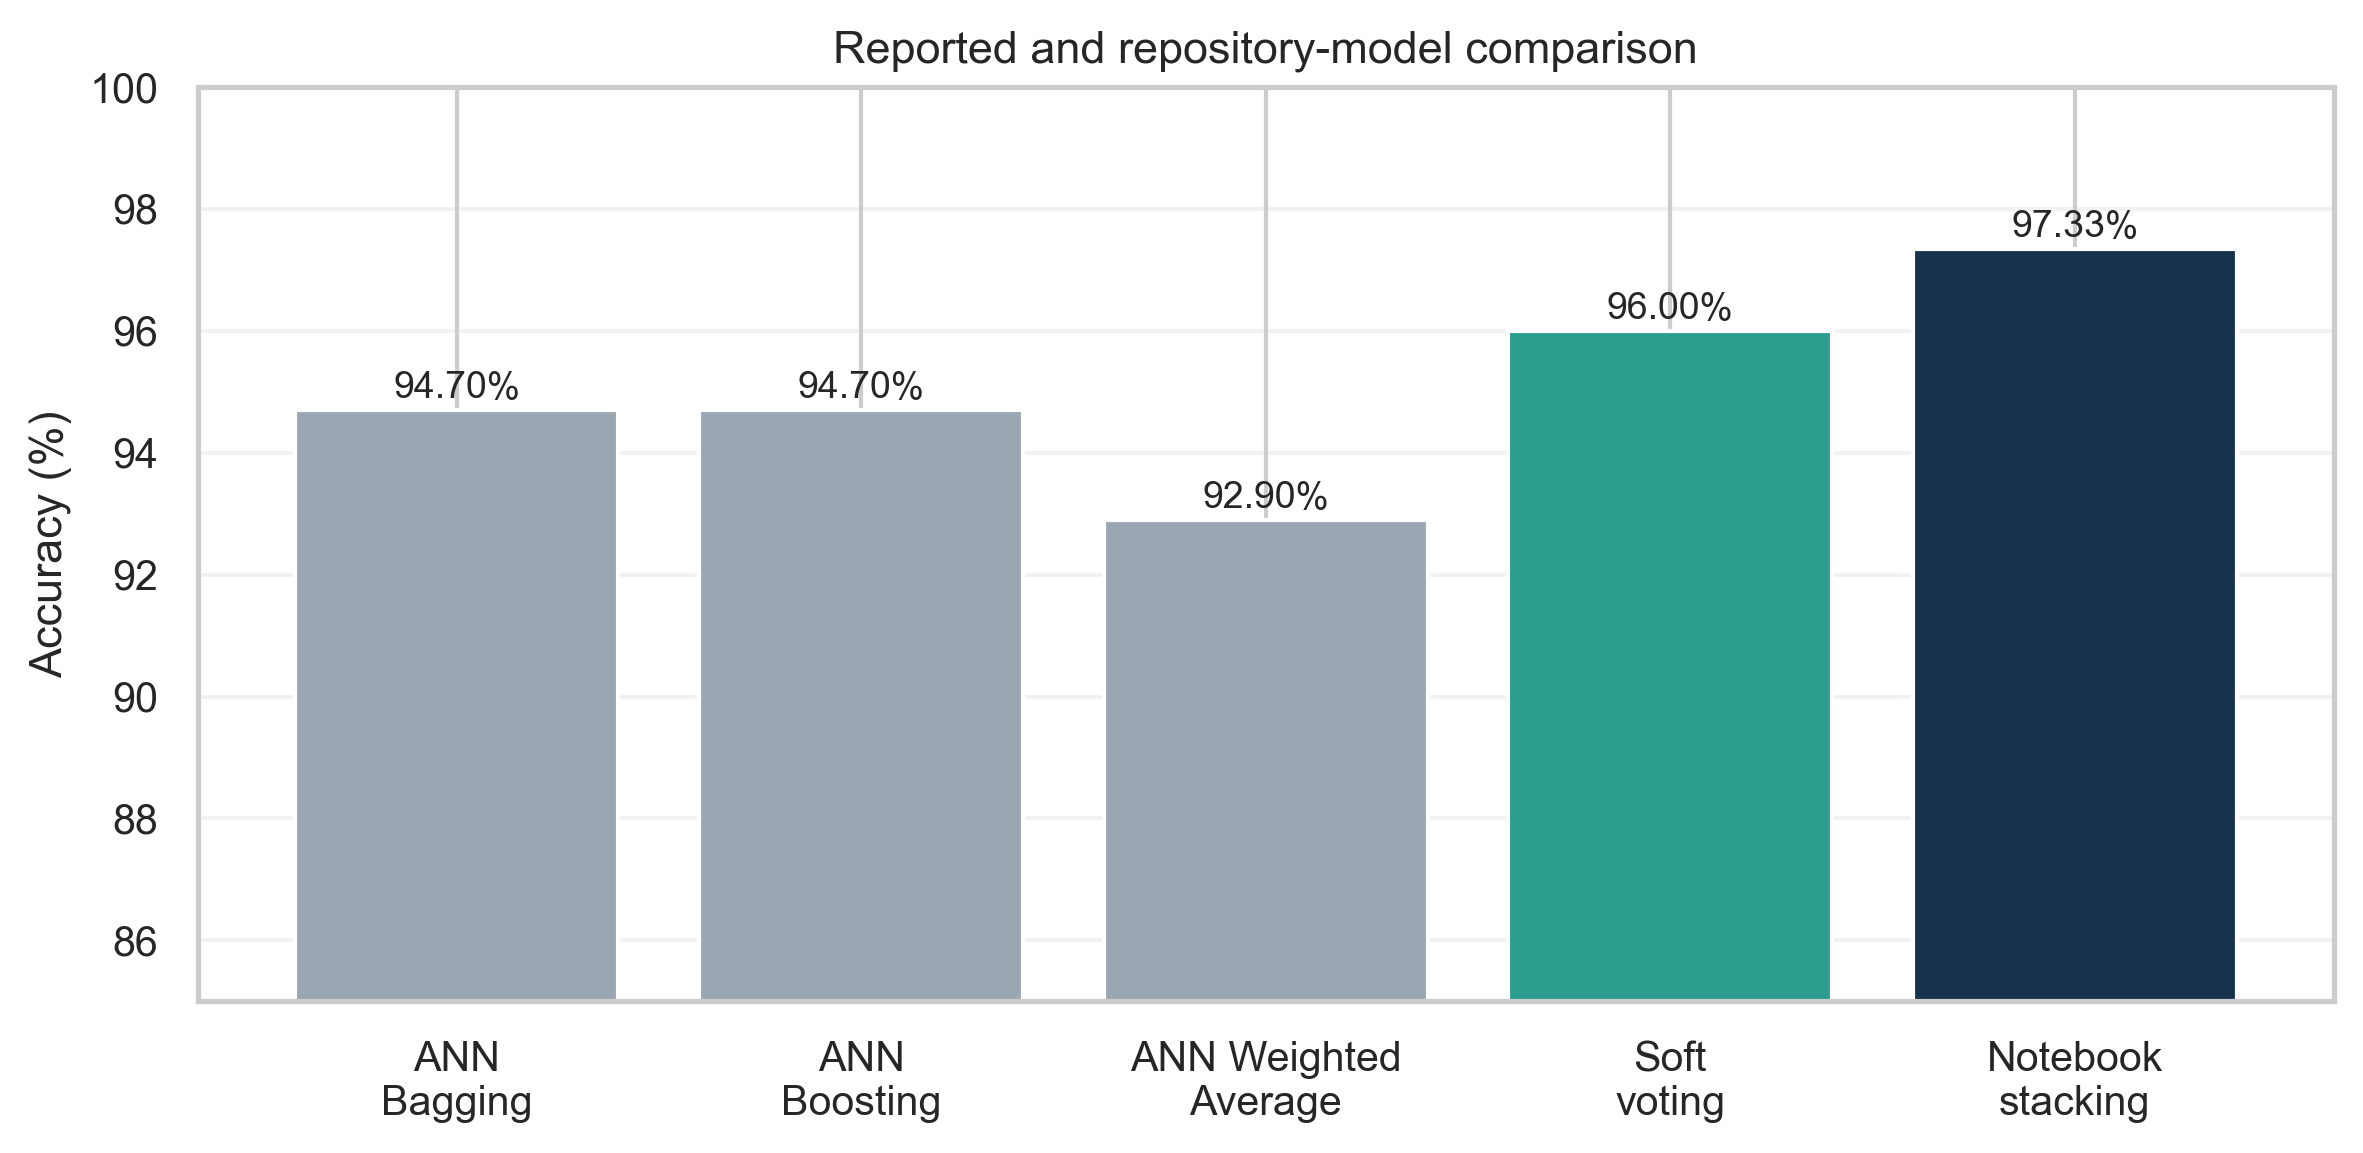
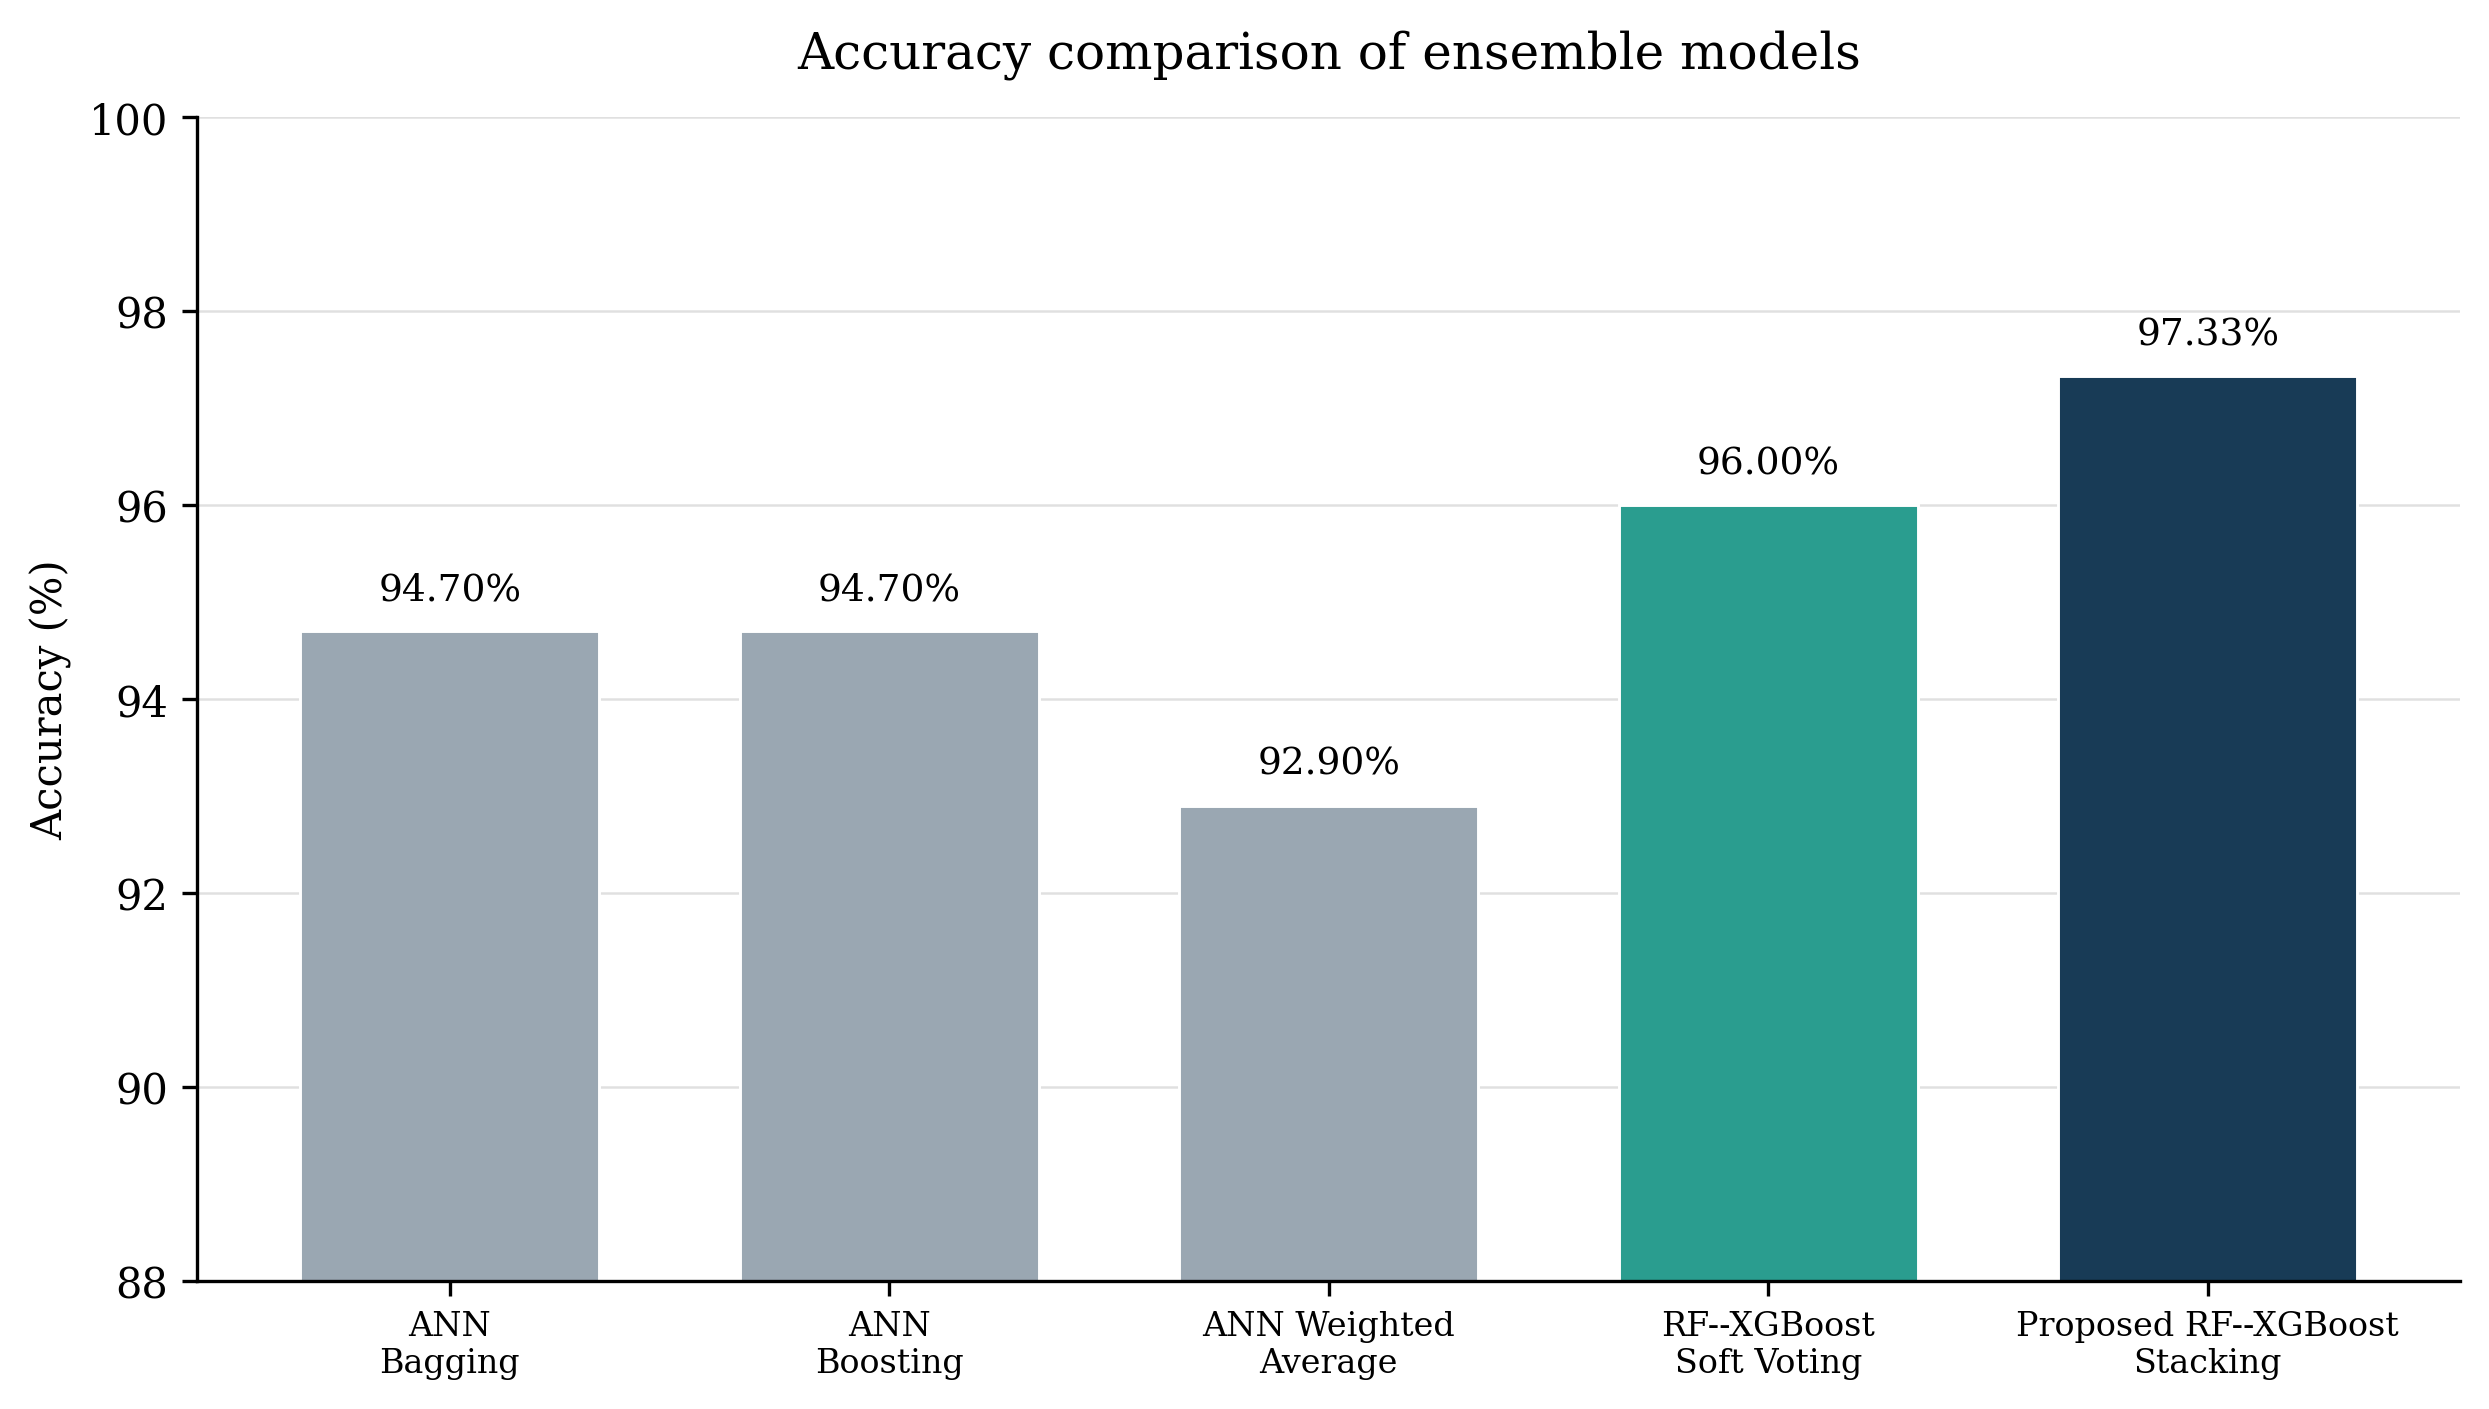
gd

diff --git a/main.tex b/main.tex
@@ -1,7 +1,10 @@
 \documentclass[preprint,12pt]{elsarticle}
 
 \usepackage{amsmath,amssymb}
-\usepackage{booktabs,multirow,array}
+\usepackage{booktabs,multirow,array,tabularx}
+\usepackage{microtype}
+\usepackage{float}
+\usepackage[section]{placeins}
 \usepackage{graphicx}
 \usepackage{xcolor}
 \usepackage{tikz}
@@ -19,6 +22,7 @@
 \tikzset{box/.style={draw=navy,rounded corners=2pt,fill=lightblue,align=center,minimum height=8mm,text width=30mm,font=\small},arrow/.style={-{Stealth[length=2mm]},thick,draw=teal},decision/.style={diamond,draw=navy,fill=lightgold,align=center,aspect=2,text width=25mm,font=\small}}
 
 \journal{Machine Learning with Applications}
+\biboptions{sort&compress}
 
 \begin{document}
 \begin{frontmatter}
@@ -55,23 +59,29 @@ This article makes four contributions. First, it defines a complete preprocessin
 \section{Clinical and methodological context}
 Sleep-disorder prediction should be understood as a triage problem. Screening tools can prioritise a referral or a confirmatory test; they should not replace clinical history, physical examination, polysomnography, or specialist judgement \cite{aasm2023,aasm2023}. The American Academy of Sleep Medicine classification also makes clear that sleep disorders are clinically heterogeneous, whereas the present dataset contains only three broad labels \cite{aasm2023}.
 
-From a machine-learning perspective, Random Forest is a robust non-linear tabular learner based on decorrelated trees \cite{tabular2023}. XGBoost introduces regularised gradient boosting and efficient split finding for structured data \cite{xgbreview2023}. Stacking learns a second-level function over out-of-fold predictions and can exploit the distinct error profiles of its base learners \cite{ensemble2023,stackreview3}. These models are paired with scikit-learn's compositional pipeline design \cite{clinicalreport2024}, while SHAP provides additive attributions that can be aggregated for an exploratory global audit \cite{xaisurvey2023,explain2024}. The supplied 2024 base paper reports ANN Bagging and ANN Boosting accuracy of 94.7\% and a weighted-average accuracy of 92.9\% \cite{alom2024}; these values are used only as contextual comparators because the protocols are not identical.
+From a machine-learning perspective, Random Forest is a robust non-linear tabular learner based on decorrelated trees \cite{tabular2023}. XGBoost introduces regularised gradient boosting and efficient split finding for structured data \cite{xgbreview2023}. Stacking learns a second-level function over out-of-fold predictions and can exploit the distinct error profiles of its base learners \cite{ensemble2023,stackreview3}. These models are paired with a compositional preprocessing pipeline \cite{clinicalreport2024}, while SHAP provides additive attributions for model auditing \cite{xaisurvey2023,explain2024}.
 
-\begin{figure}[t]
+\begin{figure}[H]
 \centering
-\begin{tikzpicture}[node distance=7mm and 5mm]
-\node[box] (d) {Raw sleep-health records};
-\node[box,right=of d] (a) {Audit and target harmonisation};
-\node[box,right=of a] (p) {Leakage-safe preprocessing};
-\node[box,right=of p] (m) {Stacking classifier};
-\node[box,right=of m] (e) {Metrics and SHAP audit};
-\draw[arrow] (d)--(a); \draw[arrow] (a)--(p); \draw[arrow] (p)--(m); \draw[arrow] (m)--(e);
+\begin{tikzpicture}[node distance=5mm]
+\node[box,text width=72mm] (d) {Kaggle sleep-health records};
+\node[box,text width=72mm,below=of d] (a) {Data audit, target harmonisation, and identifier removal};
+\node[box,text width=72mm,below=of a] (p) {Stratified partitioning and leakage-safe preprocessing};
+\node[box,text width=72mm,below=of p] (m) {Random Forest--XGBoost stacking with logistic meta-learning};
+\node[box,text width=72mm,below=of m] (e) {Discrimination, paired uncertainty analysis, and SHAP--LIME audit};
+\draw[arrow] (d)--(a);
+\draw[arrow] (a)--(p);
+\draw[arrow] (p)--(m);
+\draw[arrow] (m)--(e);
 \end{tikzpicture}
-\caption{End-to-end study workflow. Each transformation is fitted using training data only.}
+\caption{Methodological workflow of the proposed sleep-disorder screening framework. All data-dependent transformations are estimated exclusively from the training partition.}
 \label{fig:workflow}
 \end{figure}
 
 \section{Materials and methods}
+\subsection{Methodological overview}
+The analytical design comprises five controlled stages. First, the Kaggle data are audited for schema consistency, target completeness, and clinically implausible representations. Second, identifiers are removed, categorical labels are harmonised, and blood pressure is decomposed into systolic and diastolic components. Third, a stratified hold-out partition is created before any transformation is fitted; numerical scaling and categorical encoding are learned from the training data only. Fourth, Random Forest and XGBoost base learners are integrated through a logistic-regression stacking layer trained from out-of-fold class probabilities. Finally, performance is characterised using class-sensitive metrics, paired bootstrap uncertainty, an exact McNemar test, and complementary SHAP and LIME explanations. This sequence separates model development, evaluation, and interpretation while preserving the independence of the held-out test set.
+
 \subsection{Dataset and label construction}
 The study uses the ``Sleep Health and Lifestyle Dataset'' obtained from Kaggle, rather than a hospital electronic-health-record cohort or a polysomnography archive \cite{kaggle2023}. The file contains 374 person-level records and 13 columns: one administrative identifier, 11 predictors, and one target field. The dataset is therefore best treated as a compact, structured screening benchmark. It is not a population prevalence survey, and its labels should not be interpreted as gold-standard clinical diagnoses.
 
@@ -326,70 +336,71 @@ Soft voting macro average & 0.94 & 0.95 & 0.94 & 75 \\
 
 
 
-\section{Comparison with the supplied reference study}
-The supplied base paper reports three ANN ensemble baselines: ANN Bagging (94.7\%), ANN Boosting (94.7\%), and ANN Weighted Average (92.9\%) accuracy \cite{alom2024}. We compare those reported baselines with our proposed RF--XGBoost stacking model and its soft-voting comparator. The present repository experiment reports 96.00\% for soft voting and 97.33\% for the exact tuned stacking notebook. This is a contextual comparison rather than a head-to-head clinical benchmark because the studies use different implementations, preprocessing choices, random partitions, and reporting conventions.
+\section{Comparison with ensemble baselines}
+Table~\ref{tab:basecomparison} compares the five ensemble configurations. The proposed RF--XGBoost stacking model achieved the highest accuracy (97.33\%), exceeding RF--XGBoost soft voting by 1.33 percentage points and the strongest ANN ensemble by 2.63 percentage points.
 
-\begin{table}[t]
+\begin{table}[H]
 \centering
-\caption{Contextual comparison with the supplied 2024 base paper.}
+\caption{Accuracy comparison of the proposed approach with ensemble baselines; ANN results are from \cite{alom2024}.}
 \label{tab:basecomparison}
 \small
-\begin{tabular}{p{0.38\linewidth}p{0.18\linewidth}p{0.31\linewidth}}
+\begin{tabularx}{0.74\linewidth}{@{}X c@{}}
 \toprule
-Model & Accuracy & Evidence and protocol \\\\
+Model & Accuracy \\
 \midrule
-ANN Bagging ensemble & 94.7\% & Supplied base paper; external report \\\\
-ANN Boosting ensemble & 94.7\% & Supplied base paper; external report \\\\
-ANN Weighted Average ensemble & 92.9\% & Supplied base paper; external report \\\\
-Soft voting (RF + XGBoost) & 96.00\% & Repository hold-out; 75 test records \\\\
-Tuned stacking (RF + XGBoost + meta-learner) & 97.33\% & Exact repository notebook; 75 test records \\\\
+ANN Bagging ensemble & 94.70\% \\
+ANN Boosting ensemble & 94.70\% \\
+ANN Weighted Average ensemble & 92.90\% \\
+RF--XGBoost soft voting & 96.00\% \\
+Proposed RF--XGBoost stacking & \textbf{97.33\%} \\
 \bottomrule
-\end{tabular}
+\end{tabularx}
 \end{table}
 
 \subsection{Paired statistical comparison}
-Because both repository models predict the same 75 held-out records, their predictions can be compared pairwise. A 20,000-resample paired bootstrap estimated the stacking-minus-soft-voting accuracy difference as 1.33 percentage points, with a 95\% percentile interval from $-2.67$ to $5.33$ percentage points. The exact McNemar test used the discordance table $\begin{bmatrix}71&1\\\\2&1\end{bmatrix}$ and returned $p=1.000$. The null hypothesis is therefore not rejected. The higher point estimate is a promising signal requiring repeated and external validation, not evidence of statistically significant superiority.
+Because both repository models predict the same 75 held-out records, their predictions can be compared pairwise. A 20,000-resample paired bootstrap estimated the stacking-minus-soft-voting accuracy difference as 1.33 percentage points, with a 95\% percentile interval from $-2.67$ to $5.33$ percentage points. The exact McNemar test used the discordance table $\begin{bmatrix}71&1\\2&1\end{bmatrix}$ and returned $p=1.000$. The null hypothesis is therefore not rejected. The higher point estimate is a promising signal requiring repeated and external validation, not evidence of statistically significant superiority.
 
-\begin{table}[t]
+\begin{table}[H]
 \centering
 \caption{Paired uncertainty analysis on the shared 75-record test set.}
 \label{tab:stats}
 \small
 \begin{tabular}{p{0.47\linewidth}p{0.30\linewidth}}
 \toprule
-Analysis & Result \\\\
+Analysis & Result \\
 \midrule
-Accuracy: soft voting & 96.00\% \\\\
-Accuracy: tuned stacking & 97.33\% \\\\
-Point difference & 1.33 percentage points \\\\
-Paired bootstrap, 20,000 resamples & 95\% CI $[-2.67,5.33]$ percentage points \\\\
-Exact McNemar test & $p=1.000$; null not rejected \\\\
-Interpretation & Descriptive improvement; external validation required \\\\
+Accuracy: soft voting & 96.00\% \\
+Accuracy: tuned stacking & 97.33\% \\
+Point difference & 1.33 percentage points \\
+Paired bootstrap, 20,000 resamples & 95\% CI $[-2.67,5.33]$ percentage points \\
+Exact McNemar test & $p=1.000$; null not rejected \\
+Interpretation & Descriptive improvement; external validation required \\
 \bottomrule
 \end{tabular}
 \end{table}
 
-\begin{figure}[p]
+\begin{figure}[H]
 \centering
 \includegraphics[width=0.94\linewidth]{confusion_matrices.png}
 \caption{Evidence-backed confusion matrices on the shared test set. The left panel is the soft-voting comparator; the right panel is the exact tuned stacking configuration from the repository notebook.}
-\label{fig:postconclusioncm}
+\label{fig:confusions}
 \end{figure}
 
-\begin{figure}[p]
+\begin{figure}[H]
 \centering
 \includegraphics[width=0.88\linewidth]{model_comparison.png}
-\caption{Contextual accuracy comparison. ANN ensemble values are transcribed from the supplied 2024 base paper; repository values are measured on the local 75-record hold-out set and are not a matched external validation.}
+\caption{Accuracy comparison of ANN ensembles, RF--XGBoost soft voting, and the proposed RF--XGBoost stacking model.}
 \label{fig:modelcomparison}
 \end{figure}
 
-\begin{figure}[p]
+\begin{figure}[H]
 \centering
 \includegraphics[width=0.78\linewidth]{shap_lime_radar.png}
 \caption{Actual SHAP--LIME radar audit generated from the repository stacking pipeline. Values are normalised within each explanation family; they indicate model association, not causation.}
 \label{fig:shaplime}
 \end{figure}
 
+\FloatBarrier
 \section{Discussion}
 The recorded result is strong for a small tabular benchmark, but it should be interpreted cautiously. The model may benefit from structured variables that are close to the dataset's label construction. The perfect None recall and Sleep Apnea recall on this split may not persist under population shift. Insomnia has lower recall, indicating a clinically meaningful failure mode if the tool were used as a gatekeeper. In practice, the operating threshold should be selected with a clinically justified utility function rather than by accuracy alone \cite{decisioncurve2023,steyerberg2024}.
 
@@ -397,12 +408,13 @@ The ensemble design is defensible because its two base learners make different i
 
 SHAP improves auditability but does not solve causality, fairness, or calibration. Attribution rankings can be unstable under correlated predictors, and a plausible explanation does not prove that a feature is medically causal \cite{rudin2023,dependence2023}. For deployment, explanations should be accompanied by calibration, subgroup error analysis, missing-data analysis, and human-factors testing \cite{clinicalxai2024,explain2024}.
 
-\begin{table}[t]
+\begin{table}[H]
 \centering
 \caption{Reproducibility and clinical-translation checklist.}
 \label{tab:checklist}
-\small
-\begin{tabular}{p{0.36\linewidth}p{0.53\linewidth}}
+\footnotesize
+\renewcommand{\arraystretch}{1.12}
+\begin{tabularx}{\linewidth}{@{}p{0.34\linewidth}X@{}}
 \toprule
 Requirement & Status and next action \\
 \midrule
@@ -415,12 +427,13 @@ Calibration and threshold utility & Not reported; add reliability and decision-c
 Subgroup fairness audit & Not reported; stratify by demographic and socioeconomic groups \\
 Clinical adjudication & Not available in the source table; compare with specialist labels \\
 \bottomrule
-\end{tabular}
+\end{tabularx}
 \end{table}
 
 \section{Limitations}
 The study has six limitations. The dataset is small and publicly sourced; its sampling process and label quality are not fully documented. The primary result comes from one hold-out split and therefore has no confidence interval. No independent hospital cohort or prospective evaluation is available. The labels do not include polysomnography-derived severity. The SHAP audit is exploratory and based on a limited background/sample design. Finally, the repository contains multiple experimental notebooks, so future work should consolidate the pipeline into a single version-controlled training script with a pre-registered evaluation protocol.
 
+\FloatBarrier
 \section{Conclusion}
 This study provides a substantially documented, explainable stacking baseline for multi-class sleep-disorder screening. The recorded Random Forest--XGBoost stack achieved 97.33\% accuracy and 0.96 macro-F1 on the available stratified hold-out set. Ten figures and four tables make the methodological path explicit, while the limitations prevent overinterpretation. The next scientific step is not to claim clinical readiness, but to test calibration, subgroup robustness, uncertainty, and external prospective validity against clinician-adjudicated outcomes.
 
@@ -430,8 +443,11 @@ The authors declare no known competing financial interests or personal relations
 \section*{Data availability}
 The analysis uses the Sleep Health and Lifestyle Dataset distributed through Kaggle \cite{kaggle2023}. The accompanying repository contains the dataset reference, notebooks, application code, and preprocessing artefacts.
 
+\FloatBarrier
+\begingroup\footnotesize
 \bibliographystyle{elsarticle-num}
 \bibliography{references}
+\endgroup
 \end{document}
 
 
